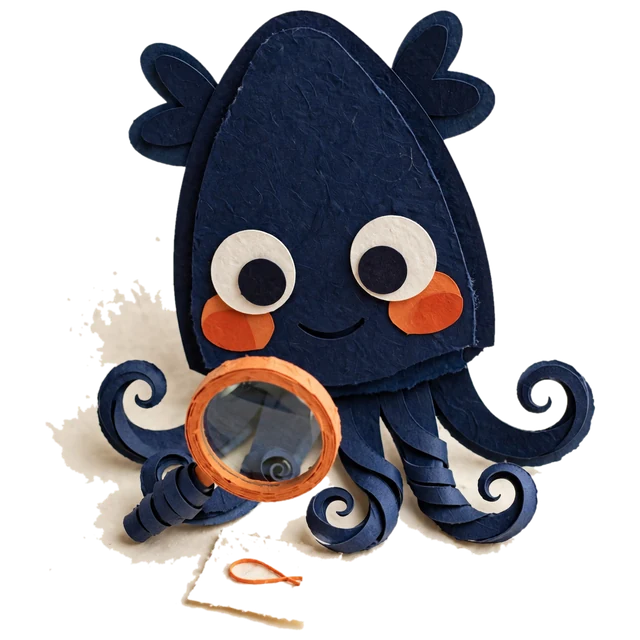
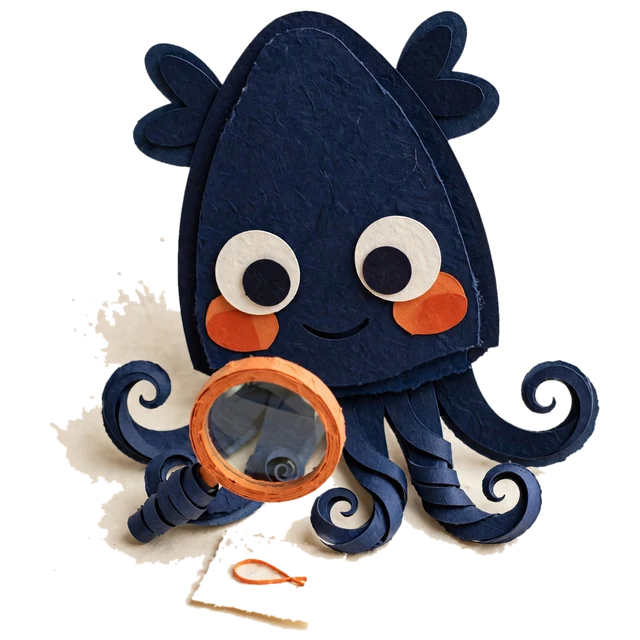
feat: Tinta blinks (eyes-closed frames for seven poses) and waves on the first screen

diff --git a/web/src/components/Mascot.tsx b/web/src/components/Mascot.tsx
@@ -5,6 +5,7 @@ import { useEffect, useState, type CSSProperties } from 'react'
 // She pops in, floats, wiggles when you tap her and, for the poses that have a second frame, blinks.
 export type Mood =
   | 'hello'
+  | 'wave'
   | 'watching'
   | 'happy'
   | 'unsure'
@@ -25,7 +26,7 @@ export type Mood =
   | 'read'
 
 // Poses with an eyes-closed frame in public/img (tinta-<mood>-blink.webp).
-const BLINKS: Mood[] = []
+const BLINKS: Mood[] = ['wave', 'watching', 'caring', 'unsure', 'writing', 'closer-look', 'read']
 
 type Props = { mood?: Mood; size?: number; label?: string }
 

diff --git a/web/src/App.tsx b/web/src/App.tsx
@@ -142,7 +142,7 @@ export default function App() {
           {langButton}
         </header>
         <div className="hero">
-          <Mascot mood="hello" size={170} label="Tinta" />
+          <Mascot mood="wave" size={170} label="Tinta" />
           <p className="bubble">{t.home.bubble}</p>
         </div>
         <h1>{t.home.title}</h1>
